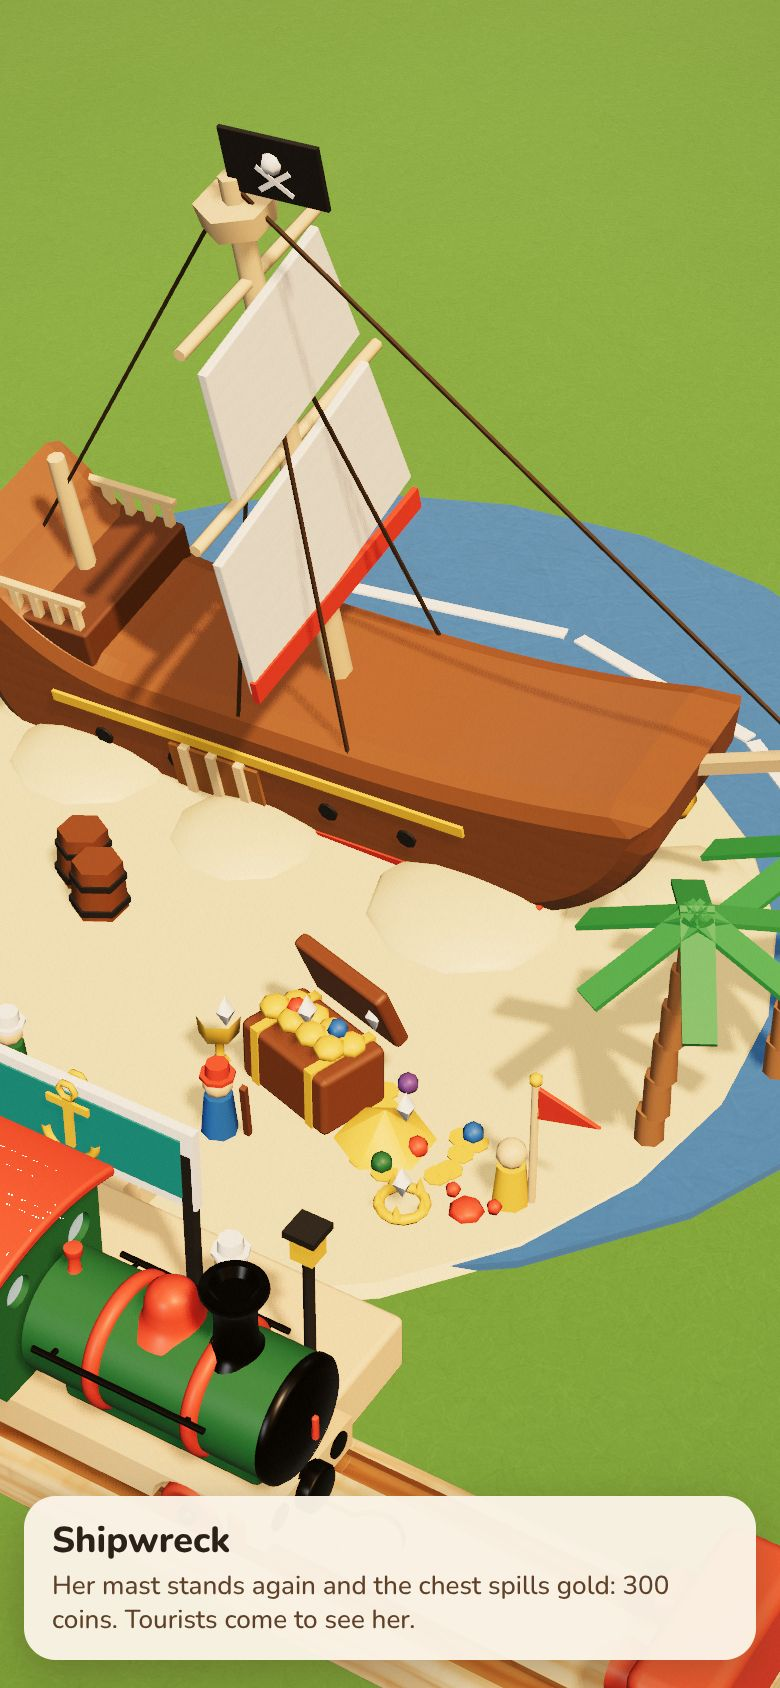
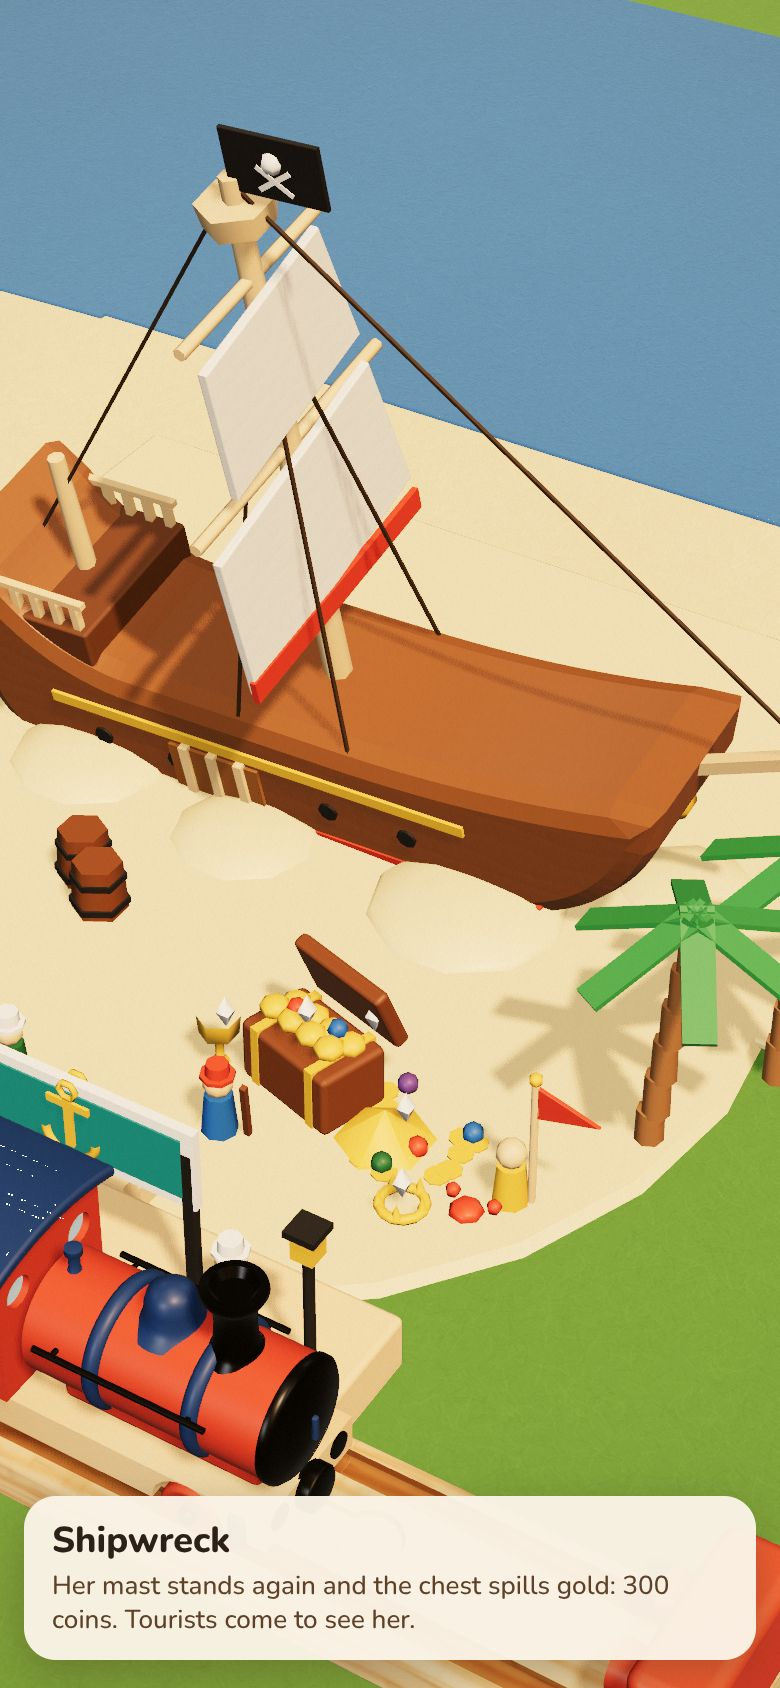
Shipwreck: placed only on a beach at the sea's edge
- The spec's placement rules: the shipwreck spawns only on a beach at the
  sea's edge, its seaward side on the line where the sand meets the sea;
  a map without a coast picks its secrets from the other five.
- The model's sand now runs to a straight seaward edge (SHIPWRECK_SEA_Z,
  z -144 in its frame); its sea and surf past it are a catalogue underlay,
  left out in the game where the map's sea is. A test checks the sand
  reaches the edge and nothing solid stands past it.
- Its shots are retaken on a stretch of shore written into the squares
  (sand, then sea), as the starter map has no coast.

Claude-Session: https://claude.ai/code/session_0121cKbkNS7498JL9xoTTbbj

diff --git a/src/catalogue/assets/secrets.ts b/src/catalogue/assets/secrets.ts
@@ -112,6 +112,7 @@ function brambles(k: Kit, n: number, r: number, x: number, z: number, seed: numb
  */
 function mist(k: Kit, n: number, r: number, x: number, z: number, seed: number, y = 4): Group {
   const g = new Group();
+  g.name = "mist";
   const R = rnd(seed);
   const mats = [k.paint("#eef1ee"), k.paint("#e2e7e4"), k.paint("#d5dcd9")];
   for (let i = 0; i < n; i++) {
@@ -635,19 +636,26 @@ function palm(k: Kit, paint: (c: string) => Material, x: number, z: number, lean
   return k.at(g, x, 0, z);
 }
 
+/**
+ * The shipwreck's seaward edge (z in its frame): it's placed only on a beach at the sea's edge, this side on the line
+ * where the sand meets the sea (see the spec's placement rules), its sand running all the way to it.
+ */
+export const SHIPWRECK_SEA_Z = -144;
+
 function shipwreck(k: Kit, found: boolean): Object3D {
   const g = new Group();
   const { paint, wood } = sitePaint(k, found);
   const sand = paint("#e6d29f");
-  // The beach, the sea along the back with its surf.
-  g.add(k.cyl(found ? k.water : paint("#7e9198"), 150, 2, 0, 0, -20, 150, 48));
-  g.add(k.cyl(sand, 122, 2.6, 0, 0, 22, 120, 48));
-  for (const [a, w] of [[-2.2, 50], [-1.75, 60], [-1.3, 60], [-0.9, 50]] as const) {
-    const f = stick(k, paint(TOY.white), w, 2, 4, 0, 1.6, 0);
-    f.position.set(Math.cos(a) * 140, 1.6, 22 + Math.sin(a) * 136);
-    f.rotation.y = -a - Math.PI / 2;
-    g.add(f);
-  }
+  // The beach, to a straight seaward edge (z = SHIPWRECK_SEA_Z) where the map's sea begins: the site stands on a shore,
+  // its sand over the beach squares, its halt inland. The sea and surf past that edge are the catalogue's (an underlay:
+  // left out in the game, where the map's own sea is there).
+  const sea = SHIPWRECK_SEA_Z;
+  g.add(k.box(sand, 290, 2.6, -sea, 1, 0, 0, sea / 2), k.cyl(sand, 122, 2.6, 0, 0, 22, 120, 48));
+  const shore = new Group();
+  shore.userData.underlay = true;
+  shore.add(k.box(found ? k.water : paint("#7e9198"), 330, 2, 70, 0, 0, 0, sea - 35));
+  for (const [x, w] of [[-100, 60], [-20, 80], [76, 70]] as const) shore.add(stick(k, paint(TOY.white), w, 2, 4, x, 1.6, sea - 4 - (x % 7)));
+  g.add(shore);
   // The ship: a toy galleon's hull (stern castle at −x, bow at +x), deck, stripe, portholes, a hole in her side.
   const ship = new Group();
   const side = new Shape();

diff --git a/src/catalogue/assets/design-assets.test.ts b/src/catalogue/assets/design-assets.test.ts
@@ -6,7 +6,7 @@ import { fileOf } from "../registry";
 import { PROP_TABS } from "../shelves";
 import { ASSETS as grand } from "./grand";
 import { ASSETS as paths } from "./paths";
-import { ASSETS as secrets, SECRET_HALT } from "./secrets";
+import { ASSETS as secrets, SECRET_HALT, SHIPWRECK_SEA_Z } from "./secrets";
 
 /** Plain stand-ins for the game's materials (theirs need a canvas for textures). */
 function stubMaterials(): Materials {
@@ -56,6 +56,23 @@ describe("design assets: grand projects, secret sites, path landmarks", () => {
   it("every grand project has its three stages, and every secret its hidden and found states", () => {
     for (const p of ["grand-exhibition", "grand-cathedral", "grand-central", "grand-ferris-wheel", "grand-royal-train"]) for (const n of [1, 2, 3]) expect(grand.some((a) => a.id === `${p}-${n}`), `${p}-${n}`).toBe(true);
     for (const a of secrets.filter((s) => !s.id.endsWith("-hidden"))) expect(secrets.some((s) => s.id === `${a.id}-hidden`), a.id).toBe(true);
+  });
+
+  it("the shipwreck stands on a beach: its sand runs to its straight seaward edge, nothing solid past it", () => {
+    for (const id of ["secret-shipwreck", "secret-shipwreck-hidden"]) {
+      const root = secrets.find((a) => a.id === id)!.build(kit);
+      root.updateMatrixWorld(true);
+      let sandToEdge = false;
+      root.traverse((o) => {
+        const m = o as Mesh;
+        if (!m.isMesh) return;
+        for (let p: Object3D | null = m; p; p = p.parent) if (p.userData.underlay || p.name === "mist") return;
+        const box = new Box3().setFromObject(m);
+        if (Math.abs(box.min.z - SHIPWRECK_SEA_Z) < 1 && box.max.x - box.min.x > 280 && box.max.y < 4) sandToEdge = true;
+        expect(box.min.z, `${id}: a part past the sea's edge`).toBeGreaterThan(SHIPWRECK_SEA_Z - 1);
+      });
+      expect(sandToEdge, id).toBe(true);
+    }
   });
 
   it("every secret site's halt is a straight beside its platform and a buffer, the open end joining the network", () => {

diff --git a/docs/superpowers/specs/2026-11-05-character-and-goals.md b/docs/superpowers/specs/2026-11-05-character-and-goals.md
@@ -279,8 +279,18 @@ brambles are few-sided balls.)
   joining the network at the straight's open end; the platform, shelter, nameboard (the site's emblem), lamps and
   bunting are in the model. Found, it's a tourist stop like the rack's Lookout halt: no one lives there, riders from
   every town get off for a day out and pay twice the fare. A test checks nothing of a site stands on its track.
+- **Where they're placed:**
+  - **The shipwreck spawns only on a beach at the sea's edge.** Its seaward side (`SHIPWRECK_SEA_Z`, z −144 in its
+    frame, a straight edge) lies on the line where the sand meets the sea, so the hull and its treasure stand on the
+    beach squares, the sea right behind it, and its halt faces inland. The model's sand runs all the way to that edge;
+    the sea and surf past it are a catalogue underlay, left out in the game, where the map's own sea is there. A test
+    checks the sand reaches the edge and nothing solid stands past it (only sea mist, hidden).
+  - **A map without a coast never gets the shipwreck:** its secrets are picked from the other five.
+  - The other five need flat land, clear of track, towns and industries, with room for the site and its halt
+    (about 300 × 330 mm, 9 × 10 squares).
 - **Pictures:** `docs/agents/shots/secret2-<name>-hidden.jpg`, `-found.jpg` (its halt laid, a train standing at
-  it) and `-close.jpg`.
+  it) and `-close.jpg`. The shipwreck's are on a stretch of shore written into the squares behind it (sand, then sea; a harness
+  shortcut, as the starter map has no coast).
 
 **Tourist trips: a sticker and a count** (mock: `node tools/shots/secret-stickers.mjs`):
 - **A tiered sticker, "Exploring":** **Day tripper**, **Tour guide**, **Grand tourist** for 25, 100 and 250 tourist
